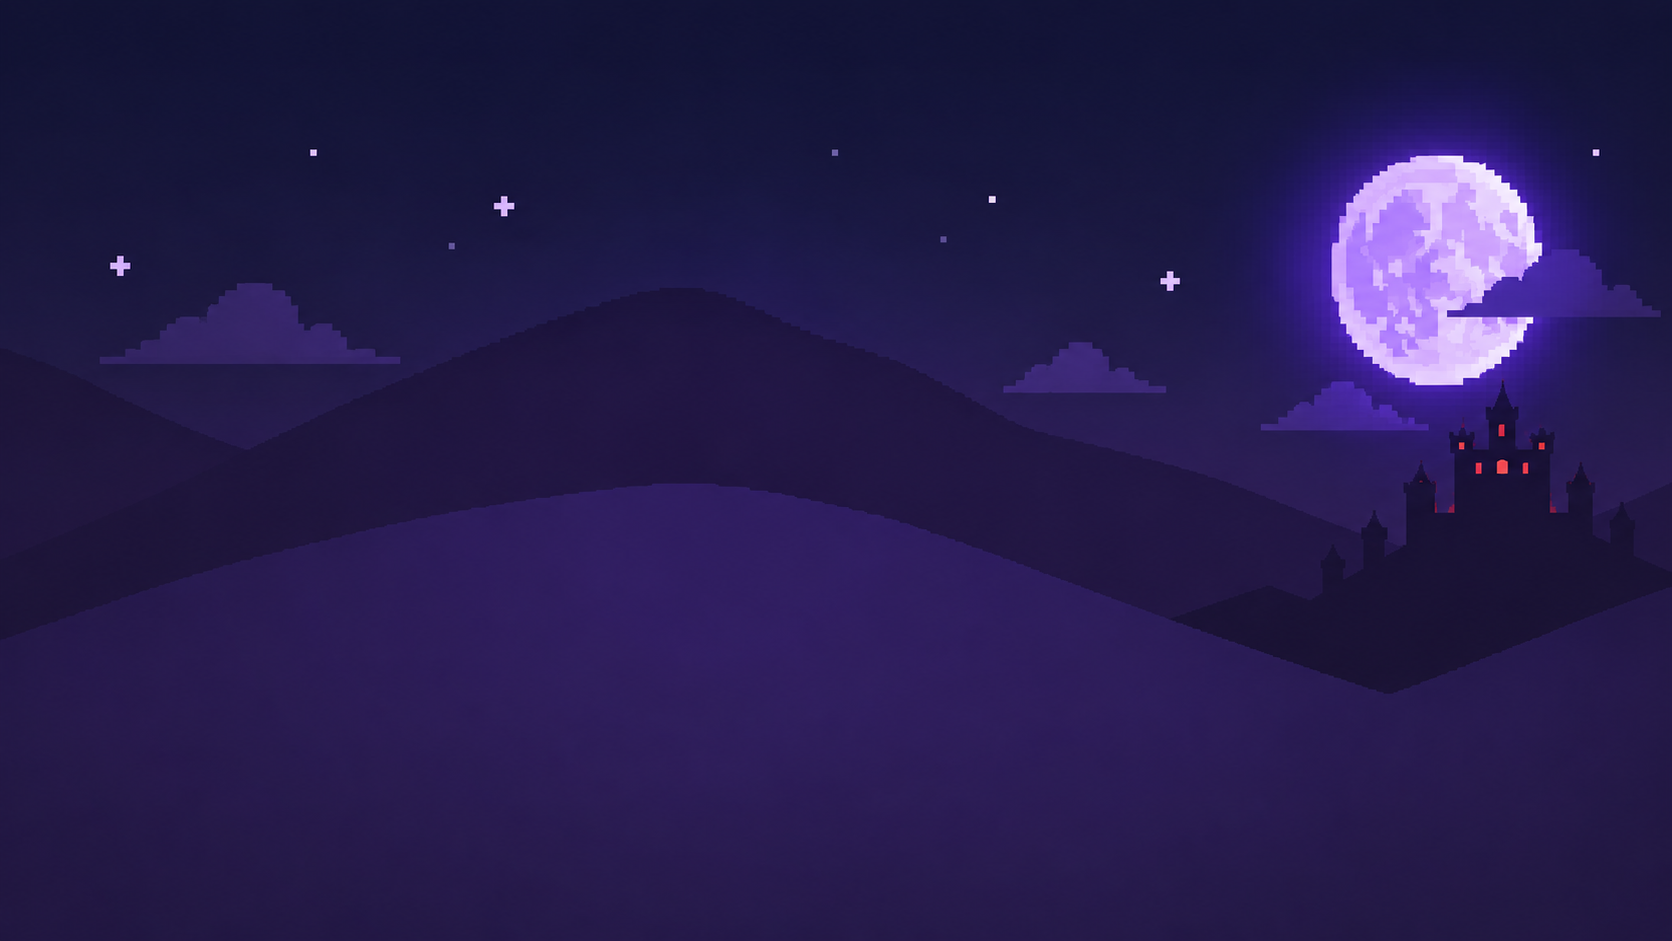
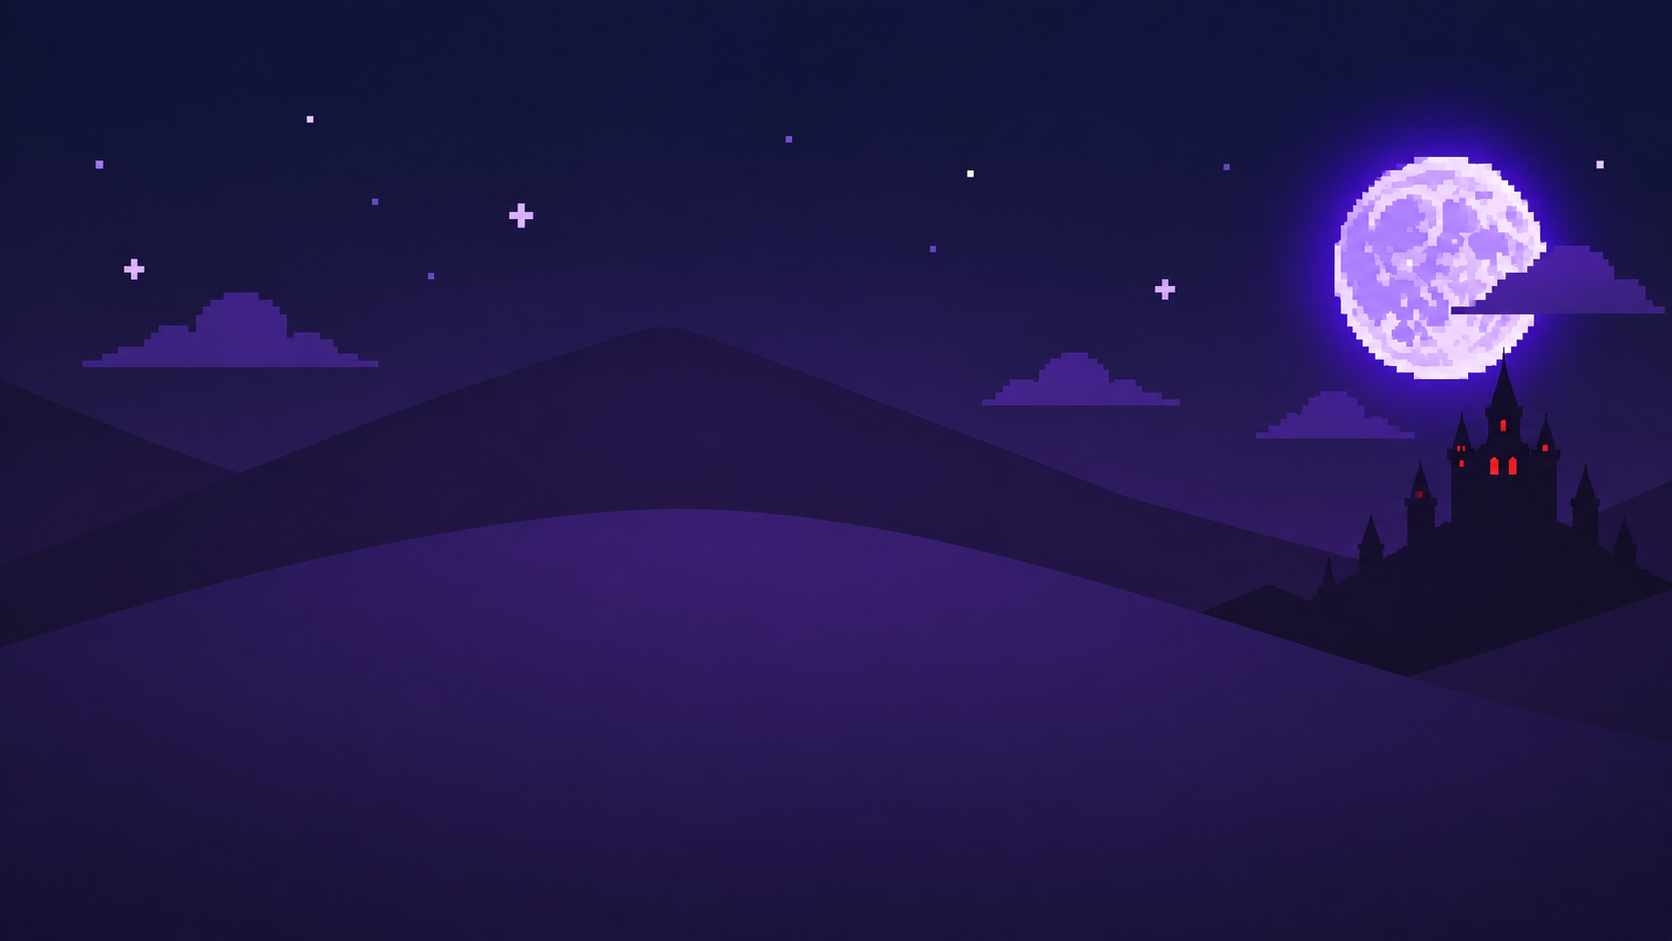
Update menu visuals

diff --git a/style.css b/style.css
@@ -27,30 +27,47 @@ canvas, img {
 #wrap {
   position: relative;
   overflow: hidden;
-  /* Fits the 960x540 canvas (plus the ~70px of HUD/progress-bar chrome
-     above it) into whichever dimension is tighter — viewport width (a
-     narrow phone) or viewport height (a short/landscape window) — so the
-     game scales to fill the screen instead of shrinking to the width
-     alone and leaving the rest of a tall viewport empty. */
-  width: min(960px, 100vw, calc((100vh - 70px) * (960 / 540)));
-  width: min(960px, 100vw, calc((100dvh - 70px) * (960 / 540)));
-  /* On a portrait phone the width limit above leaves #wrap much shorter
-     than the screen — without this, that leftover height is just bare
-     page background above/below a tiny floating box. Stretching #wrap to
-     full viewport height and centering the game column inside it means
-     the full-bleed menu screens (which are absolutely positioned to fill
-     #wrap) cover the whole phone screen instead. */
+  /* #wrap always spans the full viewport (capped at 960px wide so it
+     doesn't balloon on desktop) so the full-bleed menu screens — which are
+     absolutely positioned to fill #wrap — cover the whole phone screen
+     instead of floating in a tiny box surrounded by bare page background.
+     Sizing the actual game view (HUD + canvas) to fit inside that box is
+     handled below by flex + object-fit, not by guessing a pixel height
+     here — a guess breaks the moment the HUD wraps to a second row on a
+     short/wide landscape phone. */
+  width: min(960px, 100vw);
   height: 100vh;
   height: 100dvh;
-  max-height: 100vh;
-  max-height: 100dvh;
   display: flex;
   flex-direction: column;
-  justify-content: center;
+}
+
+#hud, #progressTrack {
+  flex: none;
 }
 
 #canvasArea {
+  flex: 1 1 auto;
+  min-height: 0;
+  display: flex;
+  align-items: center;
+  justify-content: center;
+  overflow: hidden;
+}
+
+/* The actual game "box": sized to the largest 16:9 rect that fits inside
+   whatever room #canvasArea has left (flex may give it far more height
+   than a 16:9 shape needs, e.g. a tall portrait phone), so canvas and its
+   overlays (touch controls, level-intro text) share one shrink-to-fit
+   frame and always land exactly on the visible game view — never
+   floating off in the empty space around it. */
+#canvasFrame {
   position: relative;
+  width: auto;
+  height: auto;
+  max-width: 100%;
+  max-height: 100%;
+  aspect-ratio: 960 / 540;
 }
 
 /* Studio splash — shown once on load, above absolutely everything else
@@ -125,9 +142,7 @@ canvas, img {
 canvas {
   display: block;
   width: 100%;
-  height: auto;
-  aspect-ratio: 960 / 540;
-  object-fit: contain;
+  height: 100%;
   background: #222;
   image-rendering: pixelated;
   border: 3px solid #444;
@@ -328,6 +343,11 @@ canvas {
   justify-content: center;
   gap: 16px;
   padding: 24px;
+  /* Safety net: on a short landscape phone the shrunk sizes below (and the
+     media query further down) should always make the content fit, but if
+     something still doesn't — a big text-zoom setting, an unusually tiny
+     window — scrolling beats silently clipping buttons off-screen. */
+  overflow-y: auto;
   background: radial-gradient(ellipse at center, #241d3d 0%, #120f1f 100%);
   border: 3px solid #000;
   box-shadow: inset 0 0 0 3px #4a3a70;
@@ -422,6 +442,41 @@ canvas {
 }
 
 .backBtn { margin-top: 12px; }
+
+/* A phone held sideways is wide but short (often well under 500px tall
+   once the browser chrome takes its cut) — the main menu's tagline + title
+   + 5 buttons at their normal size don't fit that height and get clipped
+   by #wrap's overflow. Shrink the menu chrome so it comfortably fits a
+   landscape phone screen instead of relying only on the overflow-y
+   safety net above. */
+@media (max-height: 480px) {
+  .screenOverlay {
+    gap: 8px;
+    padding: 10px 24px;
+  }
+  #mainMenuTagline {
+    font-size: clamp(14px, 5vh, 24px);
+  }
+  .screenOverlay h1 {
+    font-size: clamp(12px, 4vh, 20px);
+    margin: 0 0 4px;
+    line-height: 1.3;
+  }
+  .screenOverlay h2 {
+    margin: 0 0 4px;
+  }
+  .menuBtn {
+    padding: 7px 18px;
+    font-size: 11px;
+    min-width: 150px;
+  }
+  #infoMenuBtn {
+    padding: 5px 10px;
+    font-size: 7.5px;
+    min-width: 96px;
+  }
+  .backBtn { margin-top: 4px; }
+}
 
 /* ---------- Profile screen: login / register form ---------- */
 #authTabs {

diff --git a/index.html b/index.html
@@ -27,17 +27,19 @@
     </div>
     <div id="progressTrack"><div id="progressFill"></div></div>
     <div id="canvasArea">
-      <canvas id="game" width="960" height="540"></canvas>
-      <div id="overlay">
-        <div id="overlayTitle"></div>
-        <div id="overlaySub"></div>
-      </div>
-      <div id="touchControls">
-        <div class="pad">
-          <button id="btnLeft" class="touchBtn" aria-label="Izquierda"></button>
-          <button id="btnRight" class="touchBtn" aria-label="Derecha"></button>
+      <div id="canvasFrame">
+        <canvas id="game" width="960" height="540"></canvas>
+        <div id="overlay">
+          <div id="overlayTitle"></div>
+          <div id="overlaySub"></div>
         </div>
-        <button id="btnJump" class="touchBtn" aria-label="Saltar"></button>
+        <div id="touchControls">
+          <div class="pad">
+            <button id="btnLeft" class="touchBtn" aria-label="Izquierda"></button>
+            <button id="btnRight" class="touchBtn" aria-label="Derecha"></button>
+          </div>
+          <button id="btnJump" class="touchBtn" aria-label="Saltar"></button>
+        </div>
       </div>
     </div>
 
